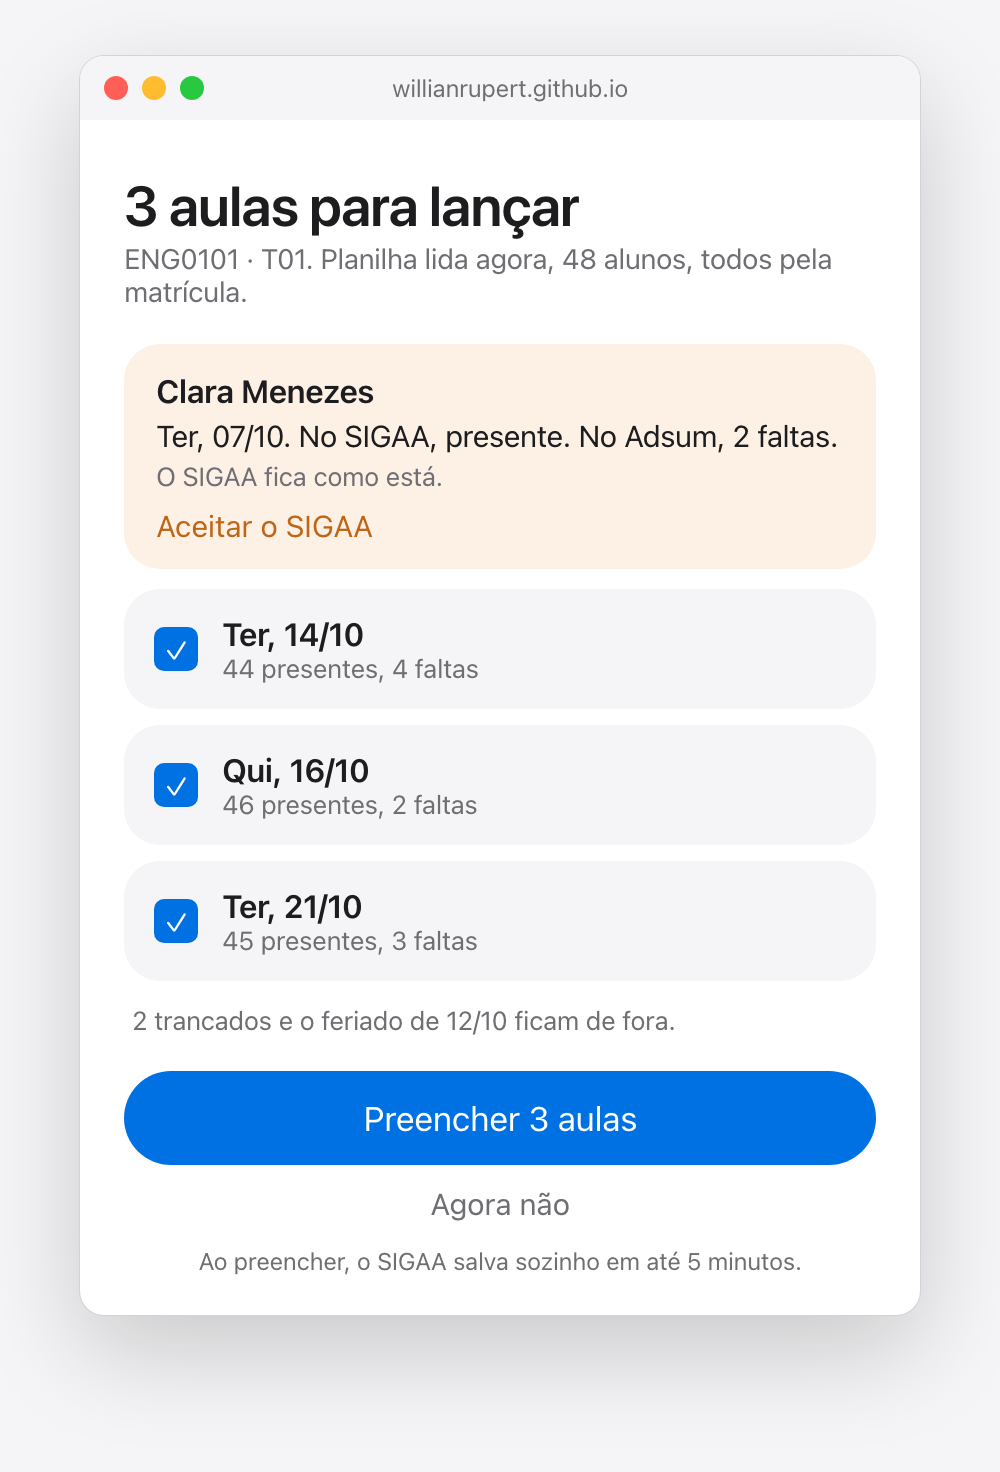
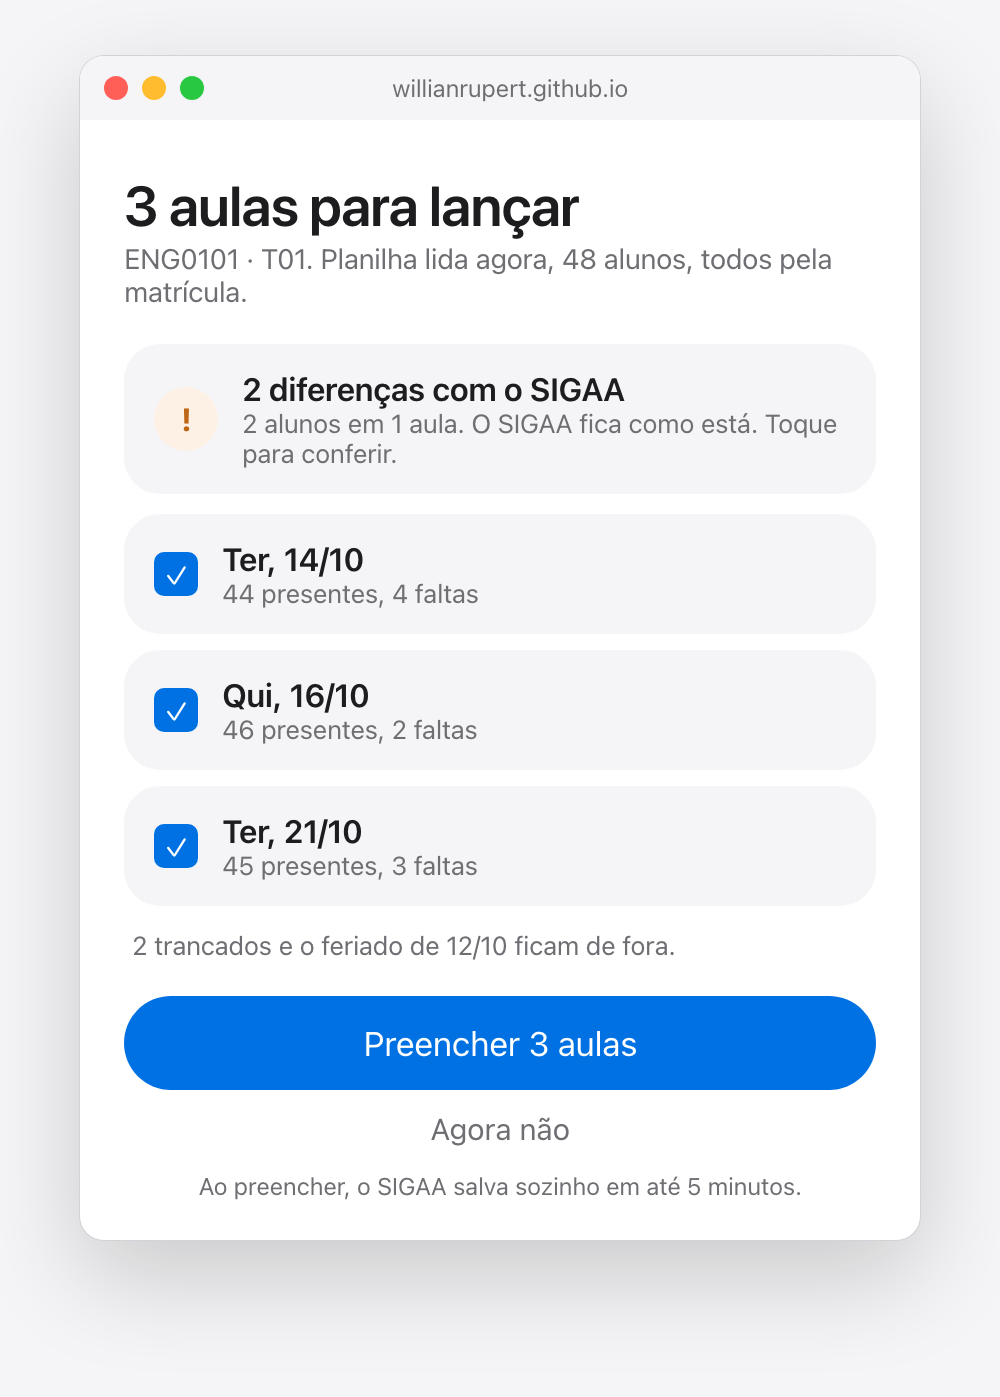
Diferenças com o SIGAA num cartão só, fechado; e Linux no cartão do leitor
Pedido do autor em 01/10/2026: o nome do aluno aparecia de cara, e com
vários alunos virava uma pilha de cartões. Agora: quantas diferenças, de
quantos alunos, em quantas aulas; aberto, por aula, um aluno por linha com
os dois valores e Aceitar o SIGAA. Esboço do docs/09 refeito.

diff --git a/src/ui/sigaa/FolhaDaTurma.tsx b/src/ui/sigaa/FolhaDaTurma.tsx
@@ -14,6 +14,58 @@ import type { Repositorio } from '../../portas/Repositorio.ts'
 const valorLegivel = (n: number) => (n === 0 ? 'presente' : n === 1 ? '1 falta' : `${n} faltas`)
 const contar = (n: number, um: string, varios: string) => `${n} ${n === 1 ? um : varios}`
 
+/**
+ * As diferenças num cartão só, fechado: quantas, de quantos alunos, em
+ * quantas aulas. Aberto, por aula, um aluno por linha. Dez alunos diferentes
+ * continuam sendo um cartão, e nenhum nome aparece sem o professor pedir.
+ */
+function ResumoDasDiferencas({
+  diferencas,
+  aberto,
+  alternar,
+  aceitar,
+}: {
+  diferencas: DiferencaDaFolha[]
+  aberto: boolean
+  alternar: () => void
+  aceitar: (d: DiferencaDaFolha) => void
+}) {
+  const porAula = new Map<string, DiferencaDaFolha[]>()
+  for (const d of [...diferencas].sort((a, b) => a.dia.localeCompare(b.dia) || a.nome.localeCompare(b.nome))) {
+    porAula.set(d.rotulo, [...(porAula.get(d.rotulo) ?? []), d])
+  }
+  const alunos = new Set(diferencas.map((d) => d.matricula)).size
+  const titulo = `${contar(diferencas.length, 'diferença', 'diferenças')} com o SIGAA`
+  return (
+    <section role="group" aria-label="Diferenças" className="folha-sigaa__diferencas">
+      <button className="cartao cartao--botao" aria-expanded={aberto} aria-label={titulo} onClick={alternar}>
+        <span className="cartao__icone cartao__icone--alerta" aria-hidden="true">
+          !
+        </span>
+        <span className="cartao__texto">
+          <strong>{titulo}</strong>
+          <small>{`${contar(alunos, 'aluno', 'alunos')} em ${contar(porAula.size, 'aula', 'aulas')}. O SIGAA fica como está.${aberto ? '' : ' Toque para conferir.'}`}</small>
+        </span>
+      </button>
+      {aberto &&
+        [...porAula].map(([rotulo, itens]) => (
+          <div key={rotulo} className="folha-sigaa__dif-aula">
+            <p className="folha-sigaa__dif-dia">{rotulo}</p>
+            {itens.map((d) => (
+              <div key={`${d.matricula}|${d.dia}`} className="folha-sigaa__diferenca">
+                <span className="folha-sigaa__dif-texto">
+                  <strong>{d.nome}</strong>
+                  <small>{`No SIGAA, ${valorLegivel(d.sigaa)}. No Adsum, ${valorLegivel(d.esperado)}.`}</small>
+                </span>
+                <button onClick={() => aceitar(d)}>Aceitar o SIGAA</button>
+              </div>
+            ))}
+          </div>
+        ))}
+    </section>
+  )
+}
+
 /** A planilha lida e a turma escolhida: conciliação, escolhas e Preencher. */
 export function FolhaDaTurma({
   repositorio,
@@ -33,6 +85,8 @@ export function FolhaDaTurma({
   const [dados, setDados] = useState<{ eventos: Evento[]; matriculados: Matriculado[]; ajustes: AjusteSigaa[]; remanejos: RemanejoSigaa[] }>()
   const [desmarcadas, setDesmarcadas] = useState<Dia[]>([])
   const [aberta, setAberta] = useState<Dia>()
+  // Fechadas por padrão: nome de aluno só aparece quando o professor pede.
+  const [verDiferencas, setVerDiferencas] = useState(false)
   const [aceitas, setAceitas] = useState<DiferencaDaFolha[]>([])
   const [recado, setRecado] = useState<string>()
   const conferida = useRef(false)
@@ -143,16 +197,7 @@ export function FolhaDaTurma({
       <p className="folha-sigaa__apoio">{resumo.apoio}</p>
 
       {resumo.diferencas.length > 0 && (
-        <section role="group" aria-label="Diferenças" className="folha-sigaa__diferencas">
-          {resumo.diferencas.map((d) => (
-            <div key={`${d.matricula}|${d.dia}`} className="folha-sigaa__diferenca">
-              <strong>{d.nome}</strong>
-              <span>{`${d.rotulo}. No SIGAA, ${valorLegivel(d.sigaa)}. No Adsum, ${valorLegivel(d.esperado)}.`}</span>
-              <small>O SIGAA fica como está.</small>
-              <button onClick={() => void aceitar(d)}>Aceitar o SIGAA</button>
-            </div>
-          ))}
-        </section>
+        <ResumoDasDiferencas diferencas={resumo.diferencas} aberto={verDiferencas} alternar={() => setVerDiferencas((v) => !v)} aceitar={(d) => void aceitar(d)} />
       )}
 
       {aceitas.map((d) => (

diff --git a/src/ui/sigaa/FolhaSigaa.test.tsx b/src/ui/sigaa/FolhaSigaa.test.tsx
@@ -99,10 +99,15 @@ describe('a folha, com o que lançar', () => {
     ponte.ler(bruto(), 'l-1')
     expect(await screen.findByRole('heading', { name: '1 aula para lançar' })).toBeInTheDocument()
     expect(screen.getByText('CIN0144 · T01. Planilha lida agora, 3 alunos, todos pela matrícula.')).toBeInTheDocument()
+    // Fechadas: quantas e de quantos, sem nome nenhum até o professor pedir.
     const diferenca = screen.getByRole('group', { name: 'Diferenças' })
+    expect(within(diferenca).getByText('1 diferença com o SIGAA')).toBeInTheDocument()
+    expect(within(diferenca).getByText('1 aluno em 1 aula. O SIGAA fica como está. Toque para conferir.')).toBeInTheDocument()
+    expect(within(diferenca).queryByText('Breno Lima')).not.toBeInTheDocument()
+    await userEvent.setup().click(within(diferenca).getByRole('button', { name: '1 diferença com o SIGAA' }))
+    expect(within(diferenca).getByText('Qui, 15/10')).toBeInTheDocument()
     expect(within(diferenca).getByText('Breno Lima')).toBeInTheDocument()
-    expect(within(diferenca).getByText('Qui, 15/10. No SIGAA, 2 faltas. No Adsum, presente.')).toBeInTheDocument()
-    expect(within(diferenca).getByText('O SIGAA fica como está.')).toBeInTheDocument()
+    expect(within(diferenca).getByText('No SIGAA, 2 faltas. No Adsum, presente.')).toBeInTheDocument()
     expect(screen.getByText('2 presentes, 1 falta')).toBeInTheDocument()
     expect(screen.getByText('Ao preencher, o SIGAA salva sozinho em até 5 minutos.')).toBeInTheDocument()
   })
@@ -168,6 +173,7 @@ describe('a folha, com o que lançar', () => {
     const usuario = userEvent.setup()
     abrir()
     ponte.ler(bruto(), 'l-1')
+    await usuario.click(await screen.findByRole('button', { name: /diferenças? com o SIGAA/ }))
     await usuario.click(await screen.findByRole('button', { name: 'Aceitar o SIGAA' }))
     expect(await screen.findByText('Breno Lima, Qui, 15/10: fica como está no SIGAA.')).toBeInTheDocument()
     expect(await repositorio.lerAjustesSigaa(TURMA)).toEqual([expect.objectContaining({ matricula: '20260000002', dia: '2026-10-15', valor: 2 })])
@@ -213,6 +219,7 @@ describe('a folha, quando o aceite deixa tudo igual', () => {
     const usuario = userEvent.setup()
     abrir()
     ponte.ler(bruto([['0', '0'], ['0', '2'], ['2', '0']]), 'l-3')
+    await usuario.click(await screen.findByRole('button', { name: /diferenças? com o SIGAA/ }))
     await usuario.click(await screen.findByRole('button', { name: 'Aceitar o SIGAA' }))
     expect(await screen.findByRole('heading', { name: 'Tudo confere' })).toBeInTheDocument()
     await waitFor(() => expect(ponte.entregues).toEqual([{ id: 'l-3', instrucoes: [] }]))

diff --git a/docs/esboco_sigaa/esboco.html b/docs/esboco_sigaa/esboco.html
@@ -34,6 +34,7 @@ h1{font-size:28px;font-weight:600;letter-spacing:-.6px;margin:4px 0 2px}
 .garantia{font-size:12px;color:var(--tf);text-align:center;margin-top:6px}
 .difer{display:flex;flex-direction:column;align-items:flex-start;gap:4px;background:var(--alf);border-radius:18px;padding:14px 16px;margin-bottom:10px}
 .aceitar{color:var(--al);padding:6px 0 0;font-size:15px}
+.icone-alerta{width:32px;height:32px;border-radius:50%;display:grid;place-items:center;flex-shrink:0;background:var(--alf);color:var(--al);font-weight:700}
 .aceita{display:flex;align-items:center;gap:8px;margin:0 0 10px;font-size:14px;color:var(--tf)}
 .aceita button{color:var(--tf);padding:4px 10px}
 .caixa-marca{width:22px;height:22px;border-radius:5px;display:grid;place-items:center;flex-shrink:0;background:var(--ac);color:#fff;font-size:14px}
@@ -81,7 +82,7 @@ h1{font-size:28px;font-weight:600;letter-spacing:-.6px;margin:4px 0 2px}
   <div class="corpo">
     <h1>3 aulas para lançar</h1>
     <p class="apoio">ENG0101 · T01. Planilha lida agora, 48 alunos, todos pela matrícula.</p>
-    <div class="difer"><div class="forte">Clara Menezes</div><div style="font-size:15px">Ter, 07/10. No SIGAA, presente. No Adsum, 2 faltas.</div><div class="fraco">O SIGAA fica como está.</div><button class="aceitar">Aceitar o SIGAA</button></div>
+    <div class="cartao" style="margin-bottom:10px"><span class="icone-alerta">!</span><div style="flex:1"><div class="forte">2 diferenças com o SIGAA</div><div class="fraco">2 alunos em 1 aula. O SIGAA fica como está. Toque para conferir.</div></div></div>
     <div class="lista">
       <div class="cartao aula"><span class="caixa-marca">✓</span><div style="flex:1"><div class="forte">Ter, 14/10</div><div class="fraco">44 presentes, 4 faltas</div></div></div>
       <div class="cartao aula"><span class="caixa-marca">✓</span><div style="flex:1"><div class="forte">Qui, 16/10</div><div class="fraco">46 presentes, 2 faltas</div></div></div>

diff --git a/src/estilo.css b/src/estilo.css
@@ -2809,22 +2809,46 @@ button:focus-visible {
   gap: 8px;
 }
 
-.folha-sigaa__diferenca {
+.folha-sigaa__diferencas .cartao--botao {
+  color: var(--tinta);
+}
+
+.folha-sigaa__dif-aula {
   display: flex;
   flex-direction: column;
-  gap: 4px;
-  align-items: flex-start;
-  padding: 14px 16px;
+  gap: 6px;
+  padding: 4px 4px 0;
+}
+
+.folha-sigaa__dif-dia {
+  margin: 4px 0 0;
+  font-size: var(--t-menor);
+  font-weight: 600;
+  color: var(--tinta-fraca);
+}
+
+.folha-sigaa__diferenca {
+  display: flex;
+  align-items: center;
+  gap: 10px;
+  padding: 10px 14px;
   border-radius: var(--raio);
   background: var(--alerta-fraca);
 }
 
-.folha-sigaa__diferenca small {
+.folha-sigaa__dif-texto {
+  flex: 1;
+  display: flex;
+  flex-direction: column;
+  min-width: 0;
+}
+
+.folha-sigaa__dif-texto small {
   color: var(--tinta-fraca);
 }
 
 .folha-sigaa__diferenca button {
-  padding-left: 0;
+  flex: none;
   color: var(--alerta);
 }
 

diff --git a/src/ui/sigaa/Jornada.test.tsx b/src/ui/sigaa/Jornada.test.tsx
@@ -98,6 +98,7 @@ describe('lançar no SIGAA, de ponta a ponta, sobre o cofre de 22/09', () => {
     gravada.digitar(alguem, 0, '2')
     clicarNoFavorito(repositorio, gravada)
     expect(await screen.findByRole('heading', { name: '1 diferença para olhar' }, ESPERA)).toBeInTheDocument()
+    await usuario.click(screen.getByRole('button', { name: /diferenças? com o SIGAA/ }))
     await usuario.click(screen.getByRole('button', { name: 'Aceitar o SIGAA' }))
     expect(await screen.findByRole('heading', { name: 'Tudo confere' }, ESPERA)).toBeInTheDocument()
     expect(screen.getByText('SIGAA e Adsum iguais em 2 aulas. 1 diferença aceita por você.')).toBeInTheDocument()

diff --git a/src/ui/componentes/CartaoDoLeitor.tsx b/src/ui/componentes/CartaoDoLeitor.tsx
@@ -12,7 +12,7 @@ export function CartaoDoLeitor({ chegando = false }: { chegando?: boolean }) {
         <strong>{chegando ? 'Você vai precisar de um leitor de crachá USB' : 'Leitor USB de 13,56 MHz'}</strong>
         <small>
           {chegando ? 'De 13,56 MHz, como o do desenho. ' : 'O testado com o Adsum, como o do desenho. '}
-          Funciona como um teclado: liga na USB e lê, sem driver, no Mac e no Windows.
+          Funciona como um teclado: liga na USB e lê, sem driver, no Mac, no Windows e no Linux.
         </small>
       </span>
     </div>

diff --git a/docs/09_esboco_da_janela.md b/docs/09_esboco_da_janela.md
@@ -31,9 +31,12 @@ O que o professor vê ao clicar no favorito na planilha do SIGAA.
 
 - **O título é o estado, numa frase.** A linha de apoio diz de onde veio a
   informação: planilha lida agora, todos pela matrícula.
-- **A diferença vem primeiro**, em laranja, porque é a única coisa que pede
-  julgamento: o nome, o dia e os dois valores, "No SIGAA, presente. No
-  Adsum, 2 faltas." "O SIGAA fica como está." tira o medo antes de ele aparecer, e
+- **A diferença vem primeiro**, num cartão só e fechado, porque é a única
+  coisa que pede julgamento: quantas, de quantos alunos, em quantas aulas.
+  Nenhum nome aparece sem o professor pedir (decidido pelo autor em
+  01/10/2026: com vários alunos, um cartão por diferença virava uma pilha).
+  Aberto, por aula, um aluno por linha, com os dois valores e "Aceitar o
+  SIGAA". "O SIGAA fica como está." tira o medo antes de ele aparecer, e
   "Aceitar o SIGAA" fica onde a decisão acontece.
 - **Cada aula é um cartão** com a caixa azul de incluir.
 - **Uma ação só, que diz o que vai fazer**: "Preencher 3 aulas". Abaixo,
